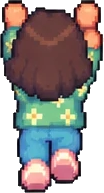
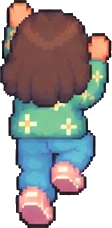
Use the new alternating-limb climbing frames
- climb-1..3 replaced with the frames from Anvita's latest sheet
  (arms and legs alternate, so it reads as a real climb)
- Scale adjusted so her body height matches standing: these frames draw
  her a little taller (~205 vs 193 px), so climb is 0.52 vs 0.55 in the
  descent and 0.95x in the bonus level

Claude-Session: https://claude.ai/code/session_01RciFSwXBH3HYJLfugmoq2a

diff --git a/js/game.js b/js/game.js
@@ -422,8 +422,8 @@
     // player
     if (!(P.inv && Math.floor(P.inv * 12) % 2)) {
       const cx = P.x + P.w / 2, foot = P.y + P.h;
-      // same pixel scale for every pose; climbing frames get +9% so her body height matches standing (179 vs 193 px)
-      const ph = (k) => (img[k].naturalHeight || 190) * PSCALE * (k.startsWith("climb") ? 1.09 : 1);
+      // same pixel scale for every pose; climbing frames get -5% so her body height matches standing (~205 vs 193 px)
+      const ph = (k) => (img[k].naturalHeight || 190) * PSCALE * (k.startsWith("climb") ? 0.95 : 1);
       const k = P.climb ? "climb" + (1 + (Math.floor(P.anim * 6) % 3))
         : !P.ground ? "jump"
         : Math.abs(P.vx) > 20 ? "run" + (1 + (Math.floor(P.anim * 10) % 5))

diff --git a/js/main.js b/js/main.js
@@ -464,8 +464,8 @@ if (povTabs) {
     const img = el("img");
     img.src = src;
     img.alt = "";
-    // climbing frames draw her body shorter (head-to-feet 179 vs 193 px standing), so they're scaled up to match
-    img.addEventListener("load", () => (img.style.width = Math.round(img.naturalWidth * (k.startsWith("climb") ? 0.6 : 0.55)) + "px"));
+    // climbing frames draw her body a little taller (head-to-feet ~205 vs 193 px standing), so they're scaled down to match
+    img.addEventListener("load", () => (img.style.width = Math.round(img.naturalWidth * (k.startsWith("climb") ? 0.52 : 0.55)) + "px"));
     imgs[k] = img;
     char.append(img);
   });

diff --git a/about.html b/about.html
@@ -369,6 +369,6 @@
     <form method="dialog"><button class="btn btn--secondary btn--sm">Close</button></form>
   </dialog>
   <script src="js/vendor/matter.min.js"></script>
-  <script src="js/main.js?v=20261029232008"></script>
+  <script src="js/main.js?v=20261029233440"></script>
 </body>
 </html>

diff --git a/projects/ar-medicine-scanner.html b/projects/ar-medicine-scanner.html
@@ -226,6 +226,6 @@
     <form method="dialog"><button class="btn btn--secondary btn--sm">Close</button></form>
   </dialog>
 
-  <script src="../js/main.js?v=20261029232008"></script>
+  <script src="../js/main.js?v=20261029233440"></script>
 </body>
 </html>

diff --git a/projects/cultura.html b/projects/cultura.html
@@ -217,6 +217,6 @@
     <form method="dialog"><button class="btn btn--secondary btn--sm">Close</button></form>
   </dialog>
 
-  <script src="../js/main.js?v=20261029232008"></script>
+  <script src="../js/main.js?v=20261029233440"></script>
 </body>
 </html>

diff --git a/projects/custodians-of-memory.html b/projects/custodians-of-memory.html
@@ -267,6 +267,6 @@
     <form method="dialog"><button class="btn btn--secondary btn--sm">Close</button></form>
   </dialog>
 
-  <script src="../js/main.js?v=20261029232008"></script>
+  <script src="../js/main.js?v=20261029233440"></script>
 </body>
 </html>

diff --git a/projects/love-after-life.html b/projects/love-after-life.html
@@ -218,6 +218,6 @@
     <form method="dialog"><button class="btn btn--secondary btn--sm">Close</button></form>
   </dialog>
 
-  <script src="../js/main.js?v=20261029232008"></script>
+  <script src="../js/main.js?v=20261029233440"></script>
 </body>
 </html>

diff --git a/projects/the-echo.html b/projects/the-echo.html
@@ -212,6 +212,6 @@
     <form method="dialog"><button class="btn btn--secondary btn--sm">Close</button></form>
   </dialog>
 
-  <script src="../js/main.js?v=20261029232008"></script>
+  <script src="../js/main.js?v=20261029233440"></script>
 </body>
 </html>

diff --git a/projects/vow.html b/projects/vow.html
@@ -323,6 +323,6 @@
     <form method="dialog"><button class="btn btn--secondary btn--sm">Close</button></form>
   </dialog>
 
-  <script src="../js/main.js?v=20261029232008"></script>
+  <script src="../js/main.js?v=20261029233440"></script>
 </body>
 </html>

diff --git a/projects/vr-esports-research.html b/projects/vr-esports-research.html
@@ -231,6 +231,6 @@
     <form method="dialog"><button class="btn btn--secondary btn--sm">Close</button></form>
   </dialog>
 
-  <script src="../js/main.js?v=20261029232008"></script>
+  <script src="../js/main.js?v=20261029233440"></script>
 </body>
 </html>

diff --git a/index.html b/index.html
@@ -247,6 +247,6 @@
     <form method="dialog"><button class="btn btn--secondary btn--sm">Close</button></form>
   </dialog>
 
-  <script src="js/main.js?v=20261029232008"></script>
+  <script src="js/main.js?v=20261029233440"></script>
 </body>
 </html>

diff --git a/projects.html b/projects.html
@@ -190,6 +190,6 @@
     <form method="dialog"><button class="btn btn--secondary btn--sm">Close</button></form>
   </dialog>
 
-  <script src="js/main.js?v=20261029232008"></script>
+  <script src="js/main.js?v=20261029233440"></script>
 </body>
 </html>
